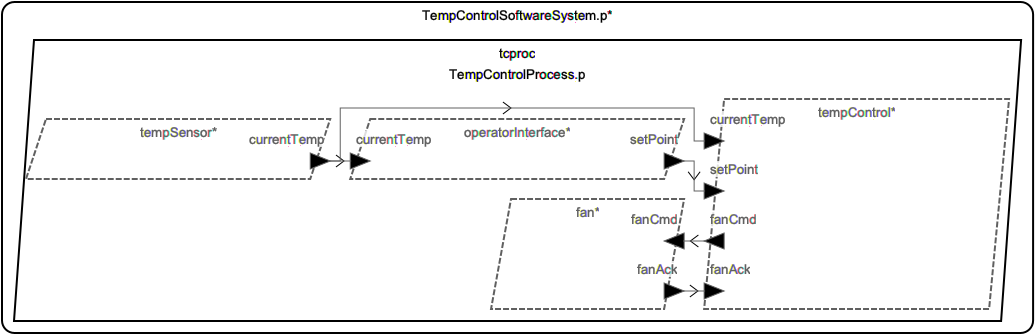
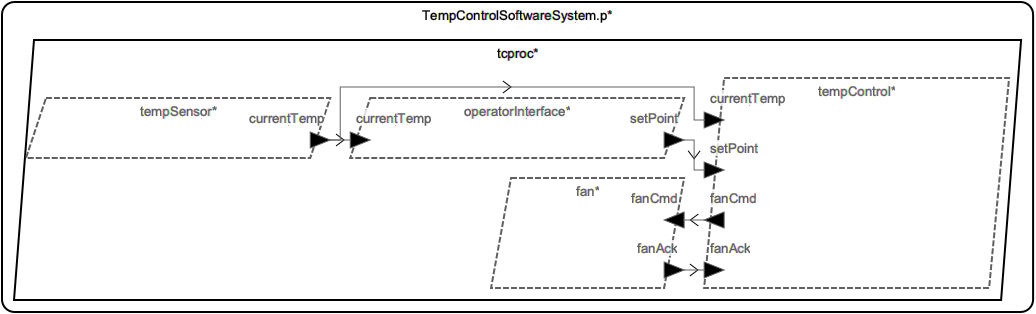
add svg arch diagram

diff --git a/README.md b/README.md
@@ -1,3 +1,3 @@
 # sysml-temp-control-periodic
 
-![arch.png](arch.png)
+![arch.png](arch.svg)
